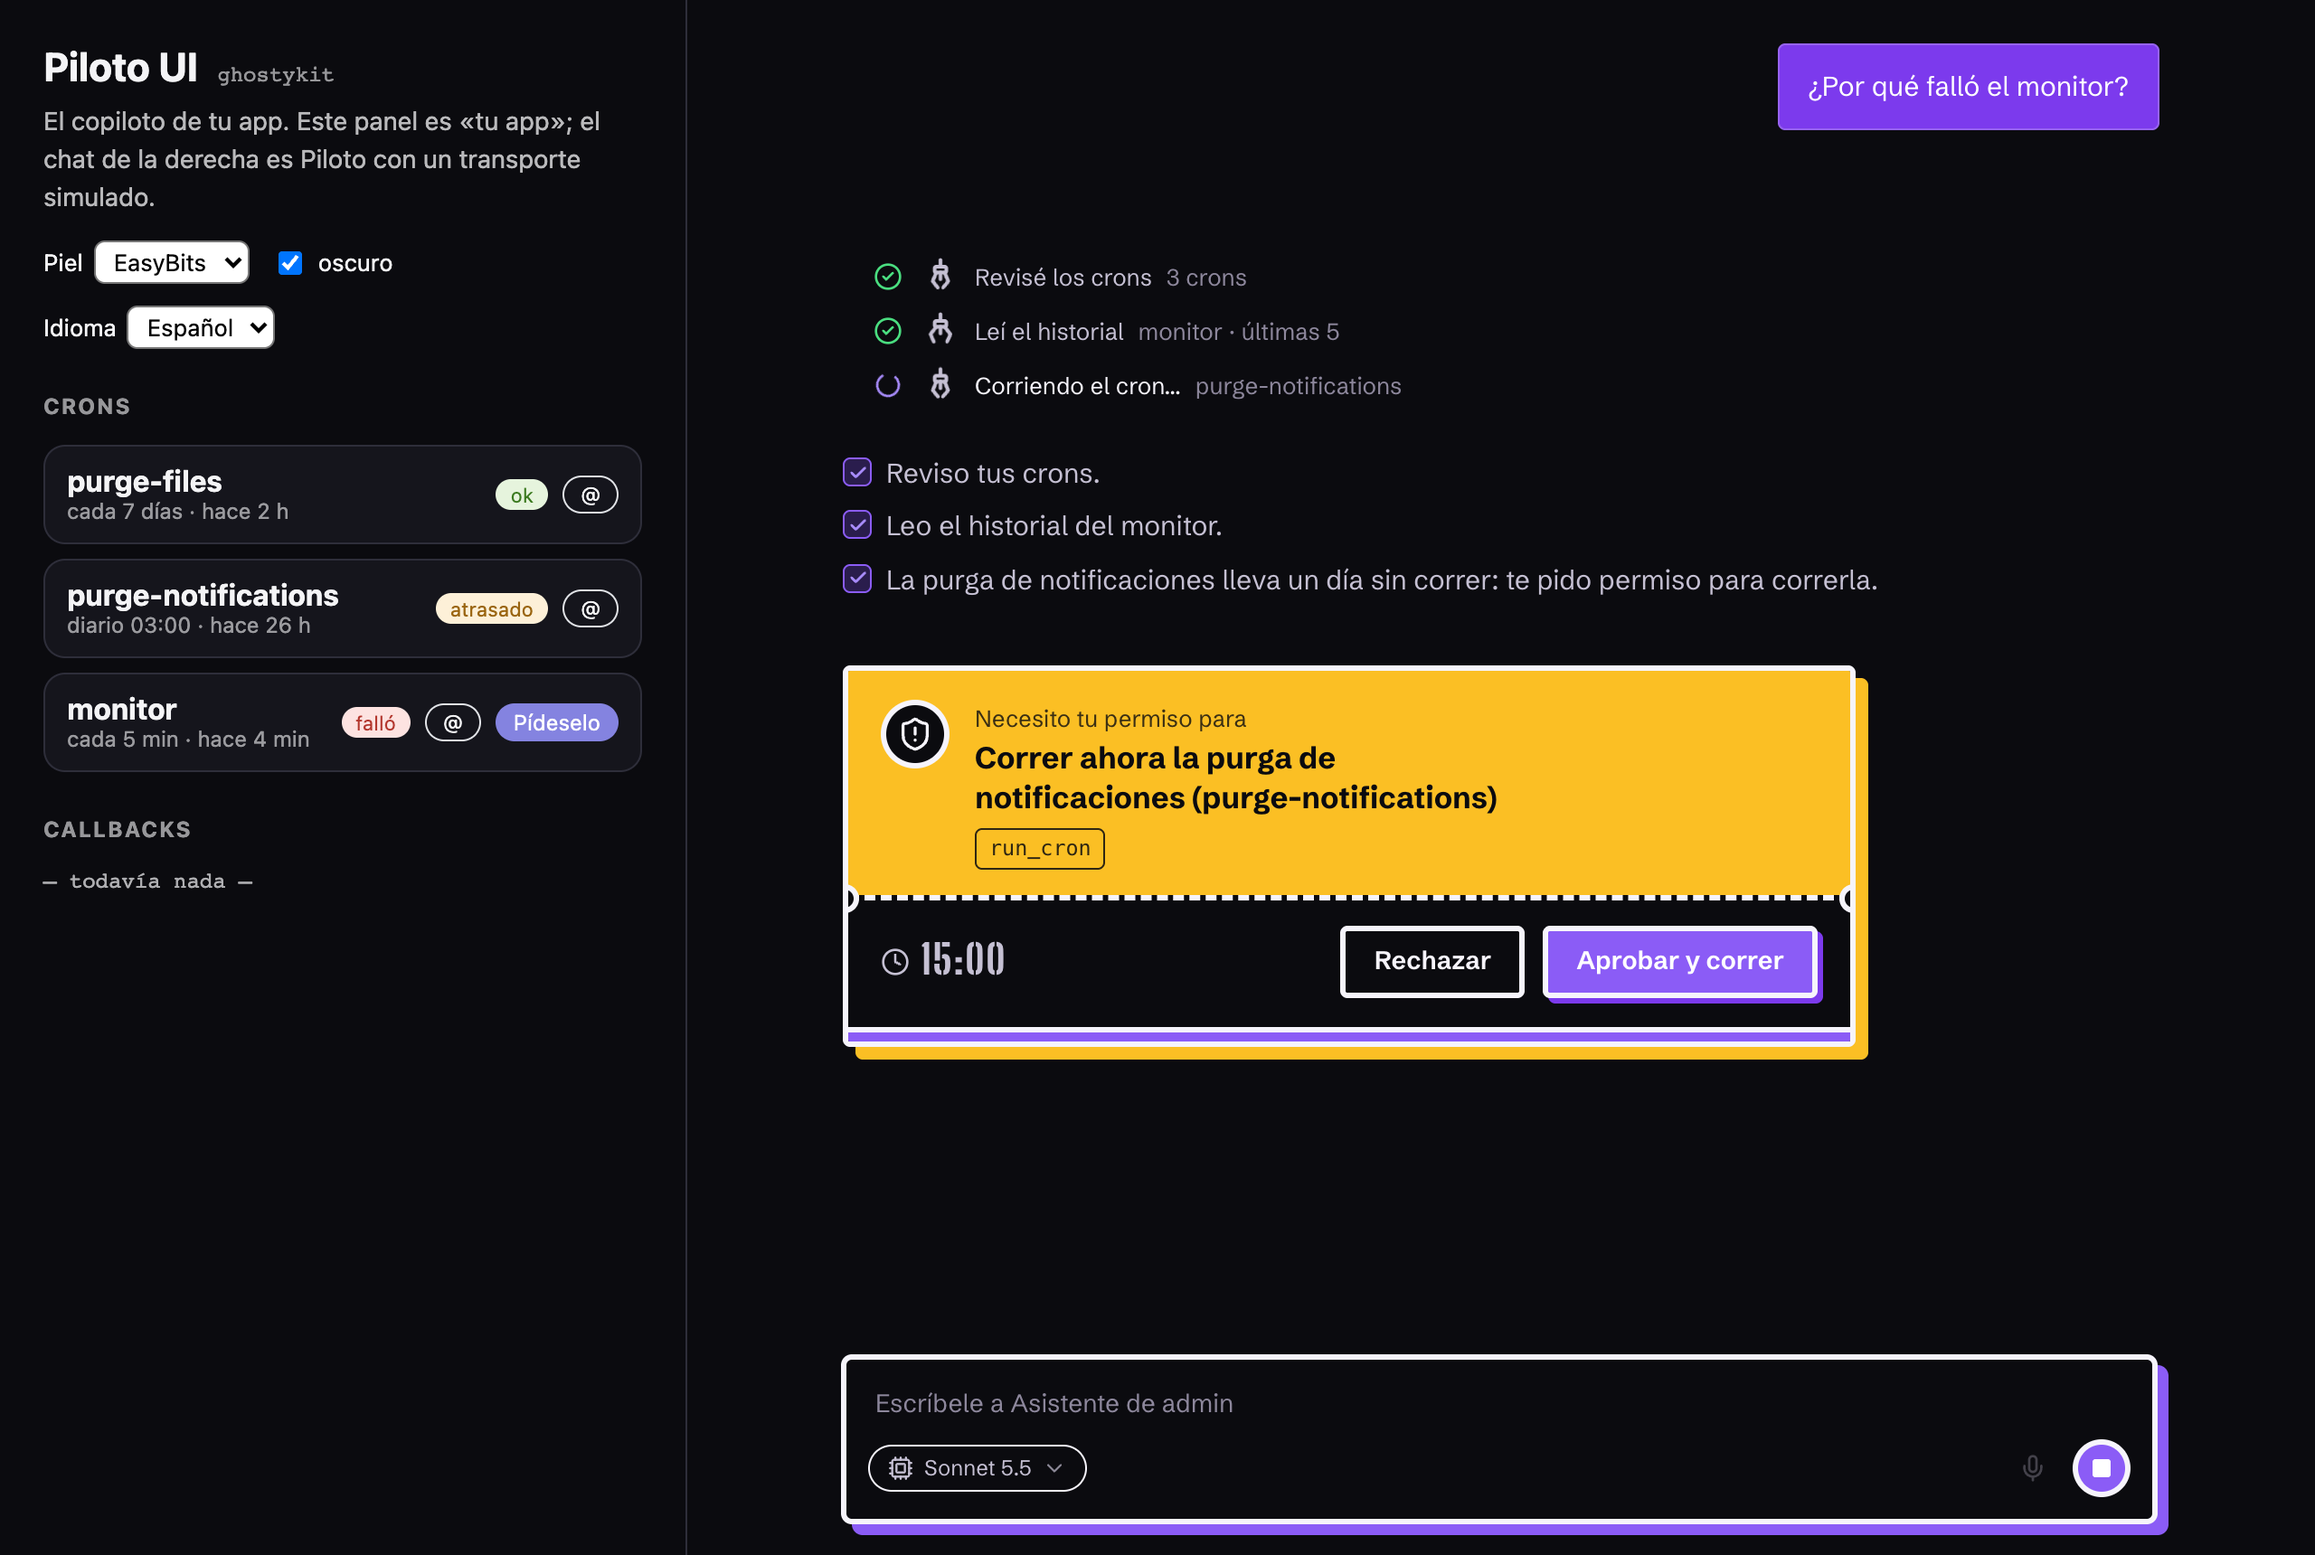
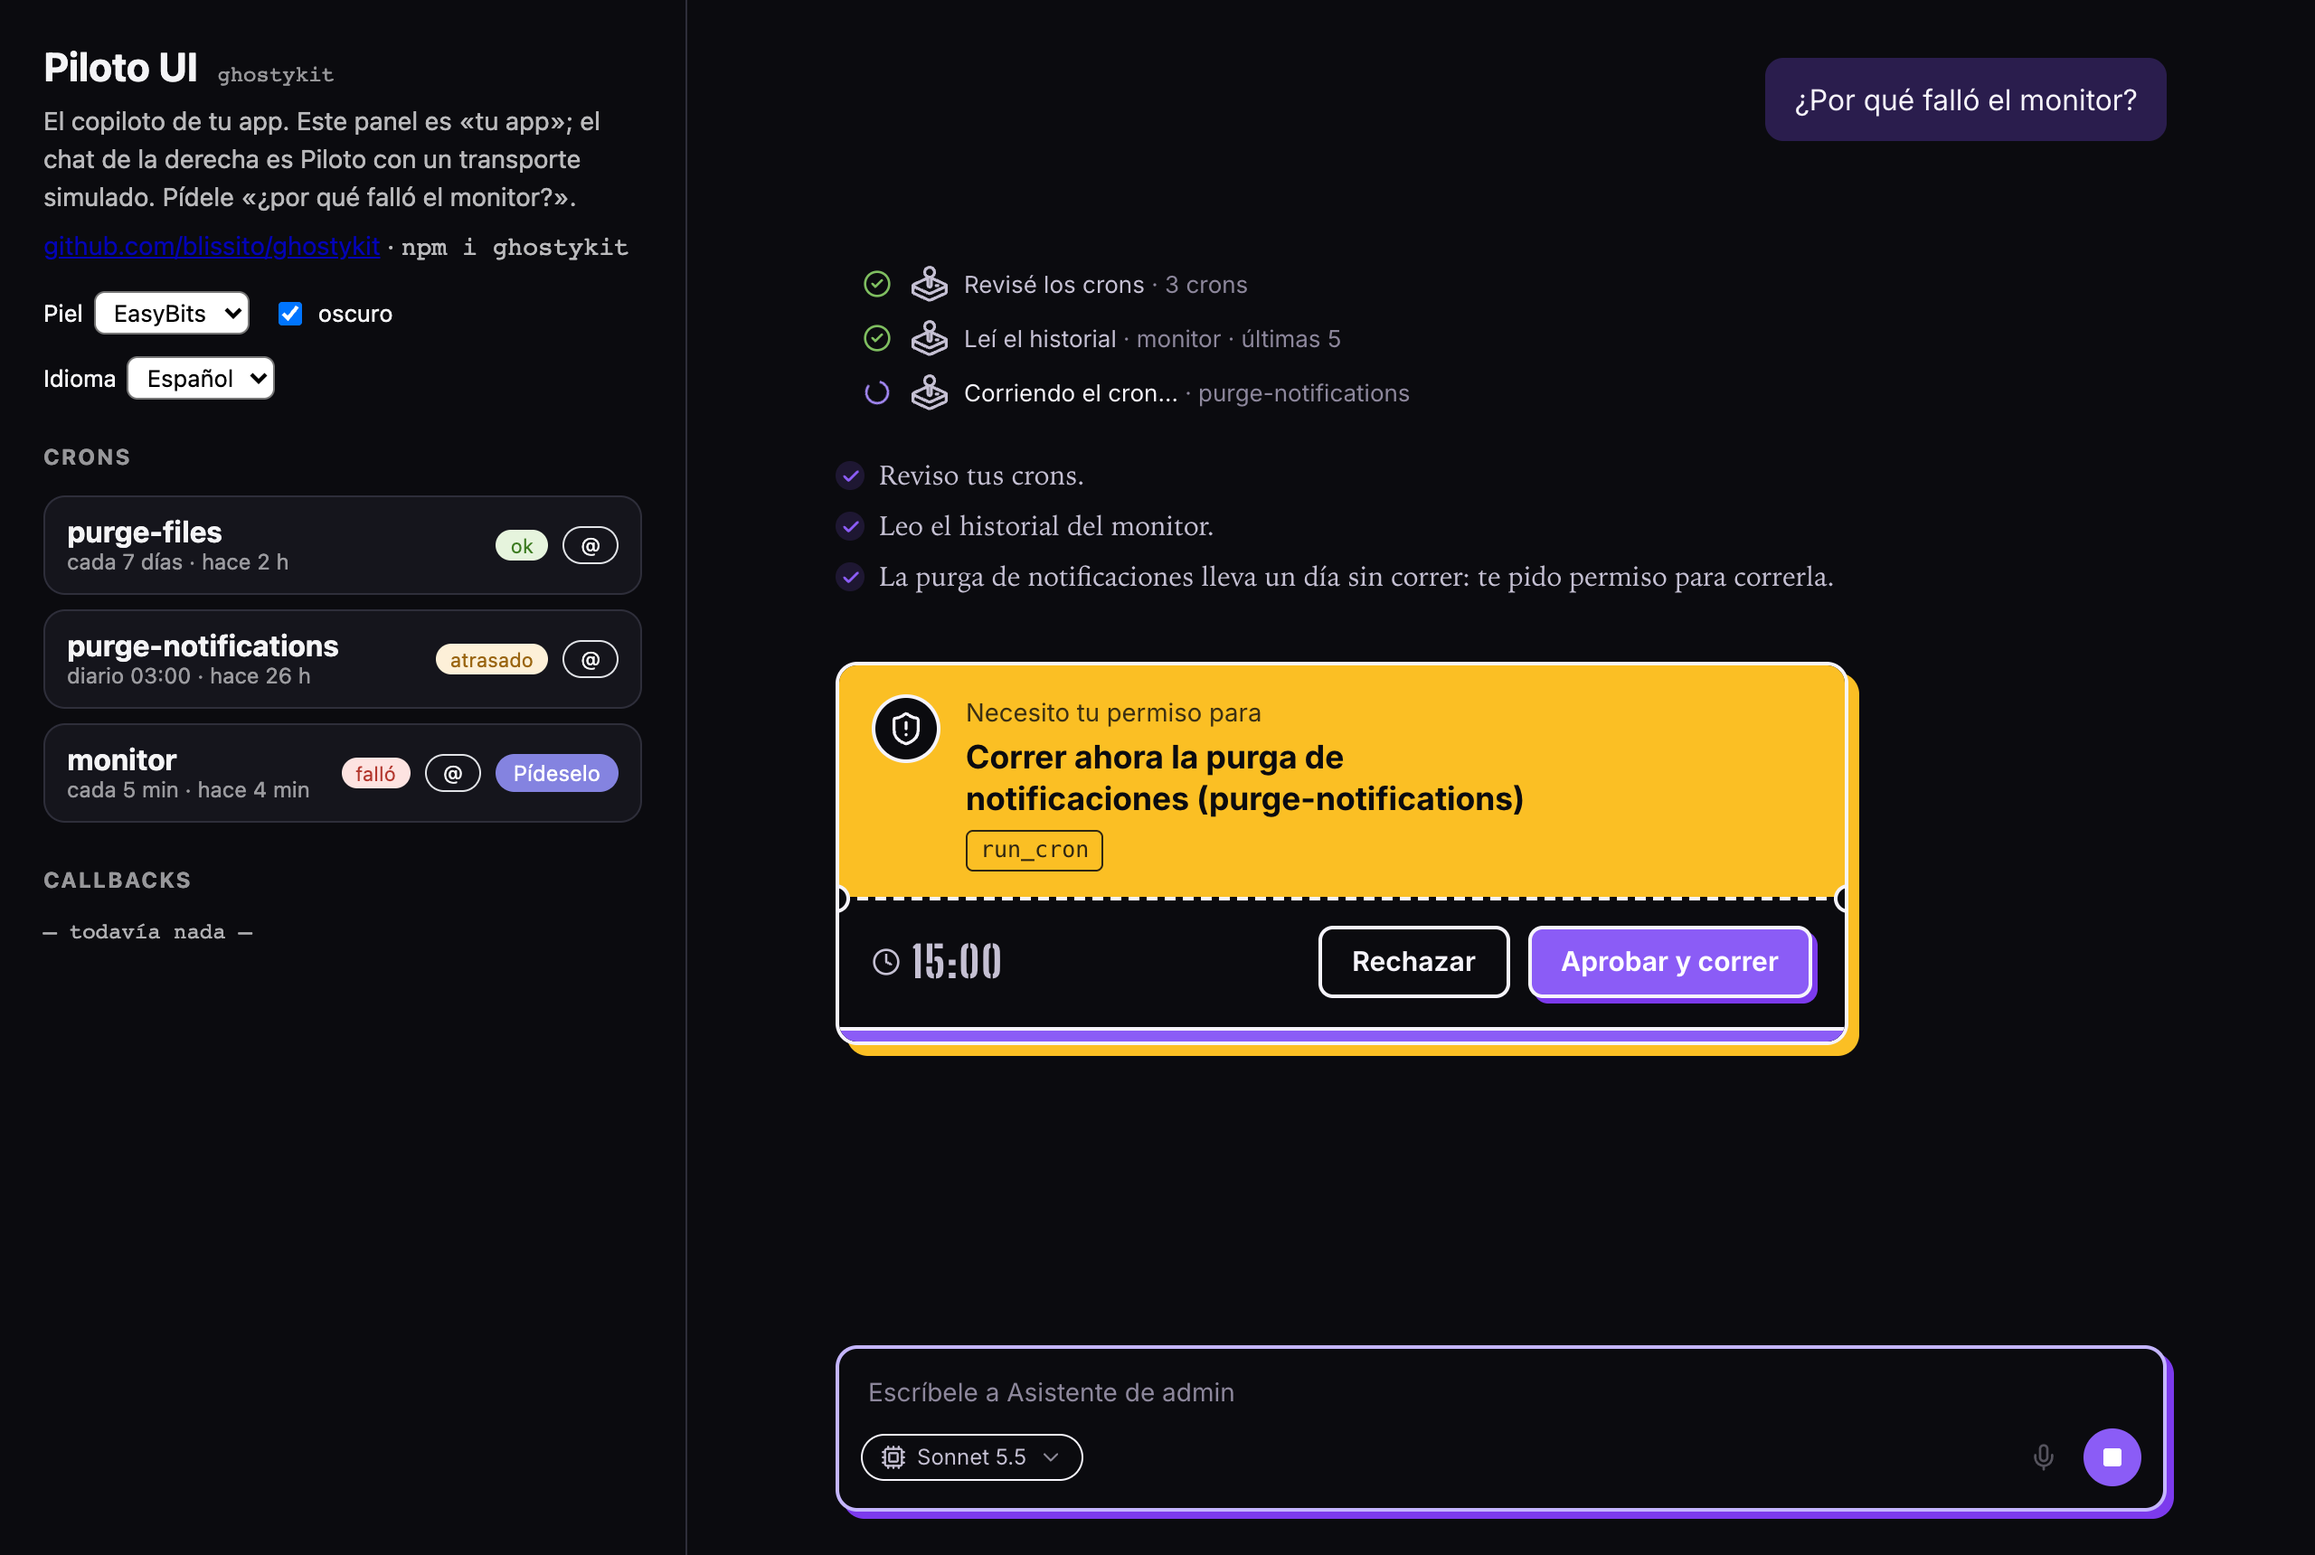
Paridad visual: capturas lado a lado ghosty.studio /c vs ghostykit (docs/screenshots/parity), demo ?parity=1, pieles re-capturadas

diff --git a/apps/demo/src/App.tsx b/apps/demo/src/App.tsx
@@ -26,6 +26,34 @@ export function App() {
   const onTurnDone = (info: TurnDoneInfo) =>
     setLog((l) => [`onTurnDone · ${info.seconds ?? "?"} s · ${info.text.length} letras${info.interrupted ? " · interrumpido" : ""}`, ...l].slice(0, 4));
 
+  // `?parity=1`: sólo el chat, con lo mismo que /c de Ghosty, para compararlos lado a lado.
+  if (q.get("parity") === "1") {
+    return (
+      <div style={{ height: "100%" }}>
+        <Piloto
+          transport={transport}
+          agentName="Ghosty"
+          skin={skin}
+          theme={dark ? "dark" : "light"}
+          avatar={<img src="https://formmy.app/logo.png" alt="" width={72} height={72} className="parity-ghost" />}
+          welcome="¿Qué estás pensando?"
+          suggestions={["Hazme una cotización en PDF", "Arma una landing para mi negocio", "Escribe un mensaje de seguimiento", "Redacta un documento"]}
+          upload={async (f) => ({ url: URL.createObjectURL(f) })}
+          transcribe={async () => ""}
+          features={{ models: false }}
+          // Lo propio de cada app va por slots: aquí, «Mis archivos» como en Ghosty.
+          slots={{
+            composerExtras: (
+              <button type="button" aria-label="De mis archivos" className="flex h-7 w-7 shrink-0 items-center justify-center rounded-full text-text-secondary transition-colors hover:bg-background-secondary hover:text-text-primary">
+                <svg width="16" height="16" viewBox="0 0 24 24" fill="none" stroke="currentColor" strokeWidth="2" strokeLinecap="round" strokeLinejoin="round" aria-hidden="true"><path d="m6 14 1.5-2.9A2 2 0 0 1 9.24 10H20a2 2 0 0 1 1.94 2.5l-1.54 6a2 2 0 0 1-1.95 1.5H4a2 2 0 0 1-2-2V5a2 2 0 0 1 2-2h3.9a2 2 0 0 1 1.69.9l.81 1.2a2 2 0 0 0 1.67.9H18a2 2 0 0 1 2 2v2" /></svg>
+              </button>
+            ),
+          }}
+        />
+      </div>
+    );
+  }
+
   return (
     <div className={`demo ${dark ? "demo-dark" : ""}`}>
       <aside className="panel">

diff --git a/apps/demo/src/mockTransport.ts b/apps/demo/src/mockTransport.ts
@@ -63,6 +63,15 @@ const cronsTurn: Script = async ({ emit, ask, input }) => {
   emit("done", { turnId });
 };
 
+/** El mismo pedido que se usa contra ghosty.studio en las capturas de paridad. */
+const cafeTurn: Script = async ({ emit }) => {
+  const turnId = `t${Date.now()}`;
+  emit("status", { phase: "session" });
+  await sleep(900);
+  await stream(emit, "1. Café Brasa Nocturna\n2. Grano & Calle\n3. Cúmulo Café", turnId);
+  emit("done", { turnId });
+};
+
 /** Un turno corto, sin pasos: para cualquier otra pregunta. */
 const chatTurn: Script = async ({ emit, input }) => {
   const turnId = `t${Date.now()}`;
@@ -104,7 +113,7 @@ export function createMockTransport(): PilotTransport {
     },
     async send(input) {
       cancelled = false;
-      const script = /cron|monitor|purga|falló|fallo/i.test(input.text) ? cronsTurn : chatTurn;
+      const script = /cafeter/i.test(input.text) ? cafeTurn : /cron|monitor|purga|falló|fallo/i.test(input.text) ? cronsTurn : chatTurn;
       const ask = (req: Permission) =>
         new Promise<string>((resolve) => {
           waiting.set(req.id, resolve);

diff --git a/apps/demo/src/demo.css b/apps/demo/src/demo.css
@@ -31,3 +31,4 @@ body { font-family: ui-sans-serif, system-ui, -apple-system, "Segoe UI", sans-se
   .demo { grid-template-columns: 1fr; grid-template-rows: auto minmax(0, 1fr); }
   .panel { max-height: 38vh; border-right: 0; border-bottom: 1px solid #e1e3e7; padding: 16px; }
 }
+.parity-ghost { width: 64px; height: 64px; }

diff --git a/README.md b/README.md
@@ -1,7 +1,8 @@
 # Piloto UI · `ghostykit`
 
 **An in-app copilot for React.** Piloto UI is the agent chat from
-[Ghosty Studio](https://www.ghosty.studio), packaged as a library. You drop it into an app you already
+[Ghosty Studio](https://www.ghosty.studio) (`/c`), packaged as a library: same components, same
+markup, same look ([side by side](https://raw.githubusercontent.com/blissito/ghostykit/main/docs/screenshots/parity/desktop-done-gs-vs-ghostykit.png)). You drop it into an app you already
 have. It sees what the user has on screen, streams what the agent says and does, and **stops to ask
 before anything risky** (human in the loop).
 
@@ -131,9 +132,11 @@ your own layout.
 ### Skins and theming
 
 `ghostykit/styles.css` is self-contained and scoped under `.piloto`. It works the same with
-**Tailwind 3, Tailwind 4 or no Tailwind** (verified in a Tailwind 3 app: its utilities compute
-identically with and without Piloto's CSS). Every color, radius, border width and shadow is a
-variable:
+**Tailwind 3, Tailwind 4 or no Tailwind**, and it shields its fields from the host's CSS (verified
+in a Tailwind 3 app **with `@tailwindcss/forms`**: Piloto's textarea gets no border or focus ring, and
+the app's own utilities compute identically with and without Piloto's CSS). Sizes don't depend on
+the host's `html` font size either: `1rem` inside Piloto is `--piloto-rem` (18 px in the Ghosty skin,
+like ghosty.studio; 16 px in the others). Every color, radius, border width and shadow is a variable:
 
 ```css
 .my-app .piloto {
@@ -142,6 +145,7 @@ variable:
   --piloto-radius-card: 6px;
   --piloto-border-width: 3px;
   --piloto-shadow-hero: 6px 6px 0 #0f766e;
+  --piloto-rem: 16px;
   --piloto-font: "Your Sans", sans-serif;
 }
 ```

diff --git a/packages/ghostykit/README.md b/packages/ghostykit/README.md
@@ -1,7 +1,8 @@
 # Piloto UI · `ghostykit`
 
 **An in-app copilot for React.** Piloto UI is the agent chat from
-[Ghosty Studio](https://www.ghosty.studio), packaged as a library. You drop it into an app you already
+[Ghosty Studio](https://www.ghosty.studio) (`/c`), packaged as a library: same components, same
+markup, same look ([side by side](https://raw.githubusercontent.com/blissito/ghostykit/main/docs/screenshots/parity/desktop-done-gs-vs-ghostykit.png)). You drop it into an app you already
 have. It sees what the user has on screen, streams what the agent says and does, and **stops to ask
 before anything risky** (human in the loop).
 
@@ -131,9 +132,11 @@ your own layout.
 ### Skins and theming
 
 `ghostykit/styles.css` is self-contained and scoped under `.piloto`. It works the same with
-**Tailwind 3, Tailwind 4 or no Tailwind** (verified in a Tailwind 3 app: its utilities compute
-identically with and without Piloto's CSS). Every color, radius, border width and shadow is a
-variable:
+**Tailwind 3, Tailwind 4 or no Tailwind**, and it shields its fields from the host's CSS (verified
+in a Tailwind 3 app **with `@tailwindcss/forms`**: Piloto's textarea gets no border or focus ring, and
+the app's own utilities compute identically with and without Piloto's CSS). Sizes don't depend on
+the host's `html` font size either: `1rem` inside Piloto is `--piloto-rem` (18 px in the Ghosty skin,
+like ghosty.studio; 16 px in the others). Every color, radius, border width and shadow is a variable:
 
 ```css
 .my-app .piloto {
@@ -142,6 +145,7 @@ variable:
   --piloto-radius-card: 6px;
   --piloto-border-width: 3px;
   --piloto-shadow-hero: 6px 6px 0 #0f766e;
+  --piloto-rem: 16px;
   --piloto-font: "Your Sans", sans-serif;
 }
 ```
